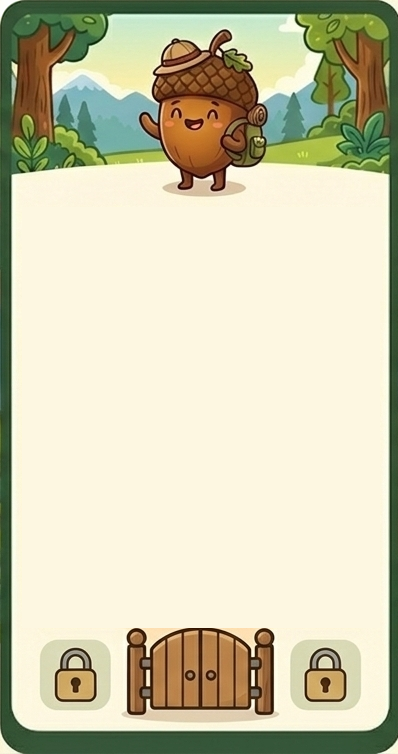
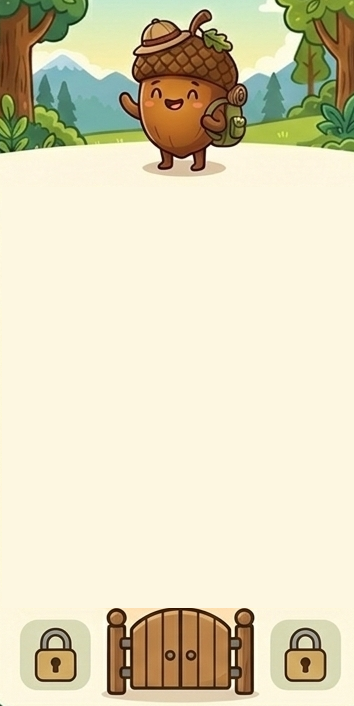
Styling improvements

diff --git a/thecuriousacorn.app/src/app/login/login.css b/thecuriousacorn.app/src/app/login/login.css
@@ -1,10 +1,20 @@
 .login-container {
   min-height: 100vh;
+  min-height: 100dvh;
   display: flex;
   align-items: center;
   justify-content: center;
-  background: linear-gradient(135deg, #667eea 0%, #764ba2 100%);
+  background-image: url('/login-screen.png');
+  background-size: 100% 100%;
+  background-position: center;
+  background-repeat: no-repeat;
+  border: 10px solid #0b6623;
+  box-sizing: border-box;
   padding: 20px;
+  padding-left: max(20px, env(safe-area-inset-left));
+  padding-right: max(20px, env(safe-area-inset-right));
+  padding-top: max(20px, env(safe-area-inset-top));
+  padding-bottom: max(20px, env(safe-area-inset-bottom));
   position: relative;
   overflow: hidden;
 }
@@ -13,8 +23,10 @@
   background: white;
   border-radius: 20px;
   padding: 40px;
-  max-width: 400px;
+  max-width: 420px;
   width: 100%;
+  max-height: calc(100dvh - 40px);
+  overflow-y: auto;
   box-shadow: 0 20px 60px rgba(0, 0, 0, 0.3);
   z-index: 10;
   animation: slideUp 0.5s ease;
@@ -41,6 +53,7 @@
   color: #4A5D45;
   margin: 0 0 10px 0;
   font-weight: 900;
+  line-height: 1.15;
 }
 
 .subtitle {
@@ -100,7 +113,8 @@
 /* Demo Button */
 .demo-btn {
   width: 100%;
-  padding: 12px;
+  min-height: 48px;
+  padding: 12px 14px;
   border: 2px solid #4A5D45;
   background: white;
   color: #4A5D45;
@@ -199,6 +213,7 @@
 .terms {
   text-align: center;
   font-size: 0.85rem;
+  line-height: 1.5;
   color: #999;
   margin-top: 30px;
 }
@@ -260,21 +275,107 @@
 }
 
 /* Responsive */
-@media (max-width: 600px) {
+@media (max-width: 768px) {
+  .login-container {
+    align-items: center;
+    justify-content: center;
+    overflow-y: auto;
+  }
+
   .login-card {
-    padding: 30px 20px;
+    margin: 0 auto;
+    max-height: calc(100dvh - 24px);
+  }
+}
+
+@media (max-width: 600px) {
+  .login-container {
+    border-width: 8px;
+    padding: 18px;
+    padding-left: max(18px, env(safe-area-inset-left));
+    padding-right: max(18px, env(safe-area-inset-right));
+    padding-top: max(18px, env(safe-area-inset-top));
+    padding-bottom: max(18px, env(safe-area-inset-bottom));
+  }
+
+  .login-card {
+    border-radius: 16px;
+    padding: 24px 16px;
   }
 
   .app-title {
     font-size: 1.5rem;
   }
 
+  .login-header {
+    margin-bottom: 28px;
+  }
+
   .subtitle {
     font-size: 0.9rem;
   }
 
+  .sign-in-container {
+    gap: 12px;
+    margin-bottom: 20px;
+  }
+
+  .divider {
+    margin: 22px 0;
+  }
+
   .demo-btn {
-    padding: 10px;
     font-size: 0.95rem;
+  }
+
+  .terms {
+    margin-top: 22px;
+    font-size: 0.8rem;
+  }
+
+  .leaf {
+    font-size: 2.4rem;
+  }
+}
+
+@media (max-width: 390px) {
+  .login-container {
+    border-width: 6px;
+  }
+
+  .login-card {
+    padding: 20px 14px;
+  }
+
+  .app-title {
+    font-size: 1.3rem;
+  }
+
+  .subtitle,
+  .sign-in-label {
+    font-size: 0.85rem;
+  }
+
+  .terms {
+    font-size: 0.76rem;
+  }
+}
+
+@media (max-height: 520px) and (orientation: landscape) {
+  .login-container {
+    align-items: flex-start;
+  }
+
+  .login-card {
+    padding-top: 20px;
+    padding-bottom: 20px;
+  }
+
+  .login-header {
+    margin-bottom: 18px;
+  }
+
+  .leaf {
+    display: none;
   }
 }

diff --git a/thecuriousacorn.app/src/app/leaf-finder/leaf-finder.css b/thecuriousacorn.app/src/app/leaf-finder/leaf-finder.css
@@ -6,14 +6,22 @@
 /* Main Container */
 .app-container {
   min-height: 100vh;
+  min-height: 100dvh;
+  height: 100vh;
+  height: 100dvh;
   display: flex;
   flex-direction: column;
   align-items: center;
   justify-content: flex-start;
+  background-image: url('/forest-background.png');
+  background-size: cover;
+  background-position: center;
+  background-repeat: no-repeat;
   padding: 12px;
   box-sizing: border-box;
   border: 10px solid #0b6623;
   overflow-y: auto;
+  overflow-x: hidden;
 }
 
 /* Title */
@@ -241,7 +249,7 @@
   width: 100%;
   padding: 0 12px;
   box-sizing: border-box;
-  margin: 35vh auto 40px auto; 
+  margin: clamp(230px, 40vh, 380px) auto 28px auto;
 }
 
 .result-image-container {
@@ -355,11 +363,52 @@
   height: auto;
 }
 
+/* Error toast */
+.error-toast {
+  display: flex;
+  align-items: center;
+  gap: 10px;
+  background: #fff8e7;
+  border: 2px solid #e8a400;
+  border-radius: 14px;
+  padding: 12px 18px;
+  margin-top: 18px;
+  max-width: clamp(240px, 80vw, 360px);
+  box-shadow: 0 4px 14px rgba(232, 164, 0, 0.18);
+  animation: toastPop 0.25s cubic-bezier(0.34, 1.56, 0.64, 1) both;
+}
+
+.error-toast__icon {
+  font-size: 1.5rem;
+  flex-shrink: 0;
+  line-height: 1;
+}
+
+.error-toast__text {
+  font-family: 'Nunito', sans-serif;
+  font-weight: 700;
+  font-size: clamp(0.82rem, 3vw, 0.92rem);
+  color: #7a4f00;
+  line-height: 1.4;
+}
+
+@keyframes toastPop {
+  from {
+    opacity: 0;
+    transform: scale(0.88) translateY(6px);
+  }
+  to {
+    opacity: 1;
+    transform: scale(1) translateY(0);
+  }
+}
+
 /* Mobile optimizations */
 @media (max-width: 480px) {
   .result-card {
     max-width: 100%;
-    margin: 35vh 0;
+
+    margin: clamp(170px, 36vh, 250px) 0 20px 0;
   }
 
   .result-image-container {

diff --git a/thecuriousacorn.app/src/app/leaf-finder/leaf-finder.html b/thecuriousacorn.app/src/app/leaf-finder/leaf-finder.html
@@ -1,4 +1,4 @@
-<div class="app-container" style="background-image: url('forest-background.png'); background-size: cover; background-position: center; background-repeat: no-repeat;">
+<div class="app-container">
   <style>
     .app-title { margin-top: clamp(130px, 30vh, 240px); transition: margin-top .15s ease; }
   </style>
@@ -36,7 +36,10 @@
       </div>
 
       @if (errorMessage()) {
-        <p class="error-message">{{ errorMessage() }}</p>
+        <div class="error-toast">
+          <span class="error-toast__icon">⚠</span>
+          <span class="error-toast__text">{{ errorMessage() }}</span>
+        </div>
       }
 
       <!-- Age Group Selector -->

diff --git a/thecuriousacorn.app/src/app/login/login.html b/thecuriousacorn.app/src/app/login/login.html
@@ -1,4 +1,4 @@
-<div class="login-container" style="background-image: url('login-screen.png'); background-size: cover; background-position: center;">
+<div class="login-container">
   <div class="login-card">
     <!-- Header -->
     <div class="login-header">
